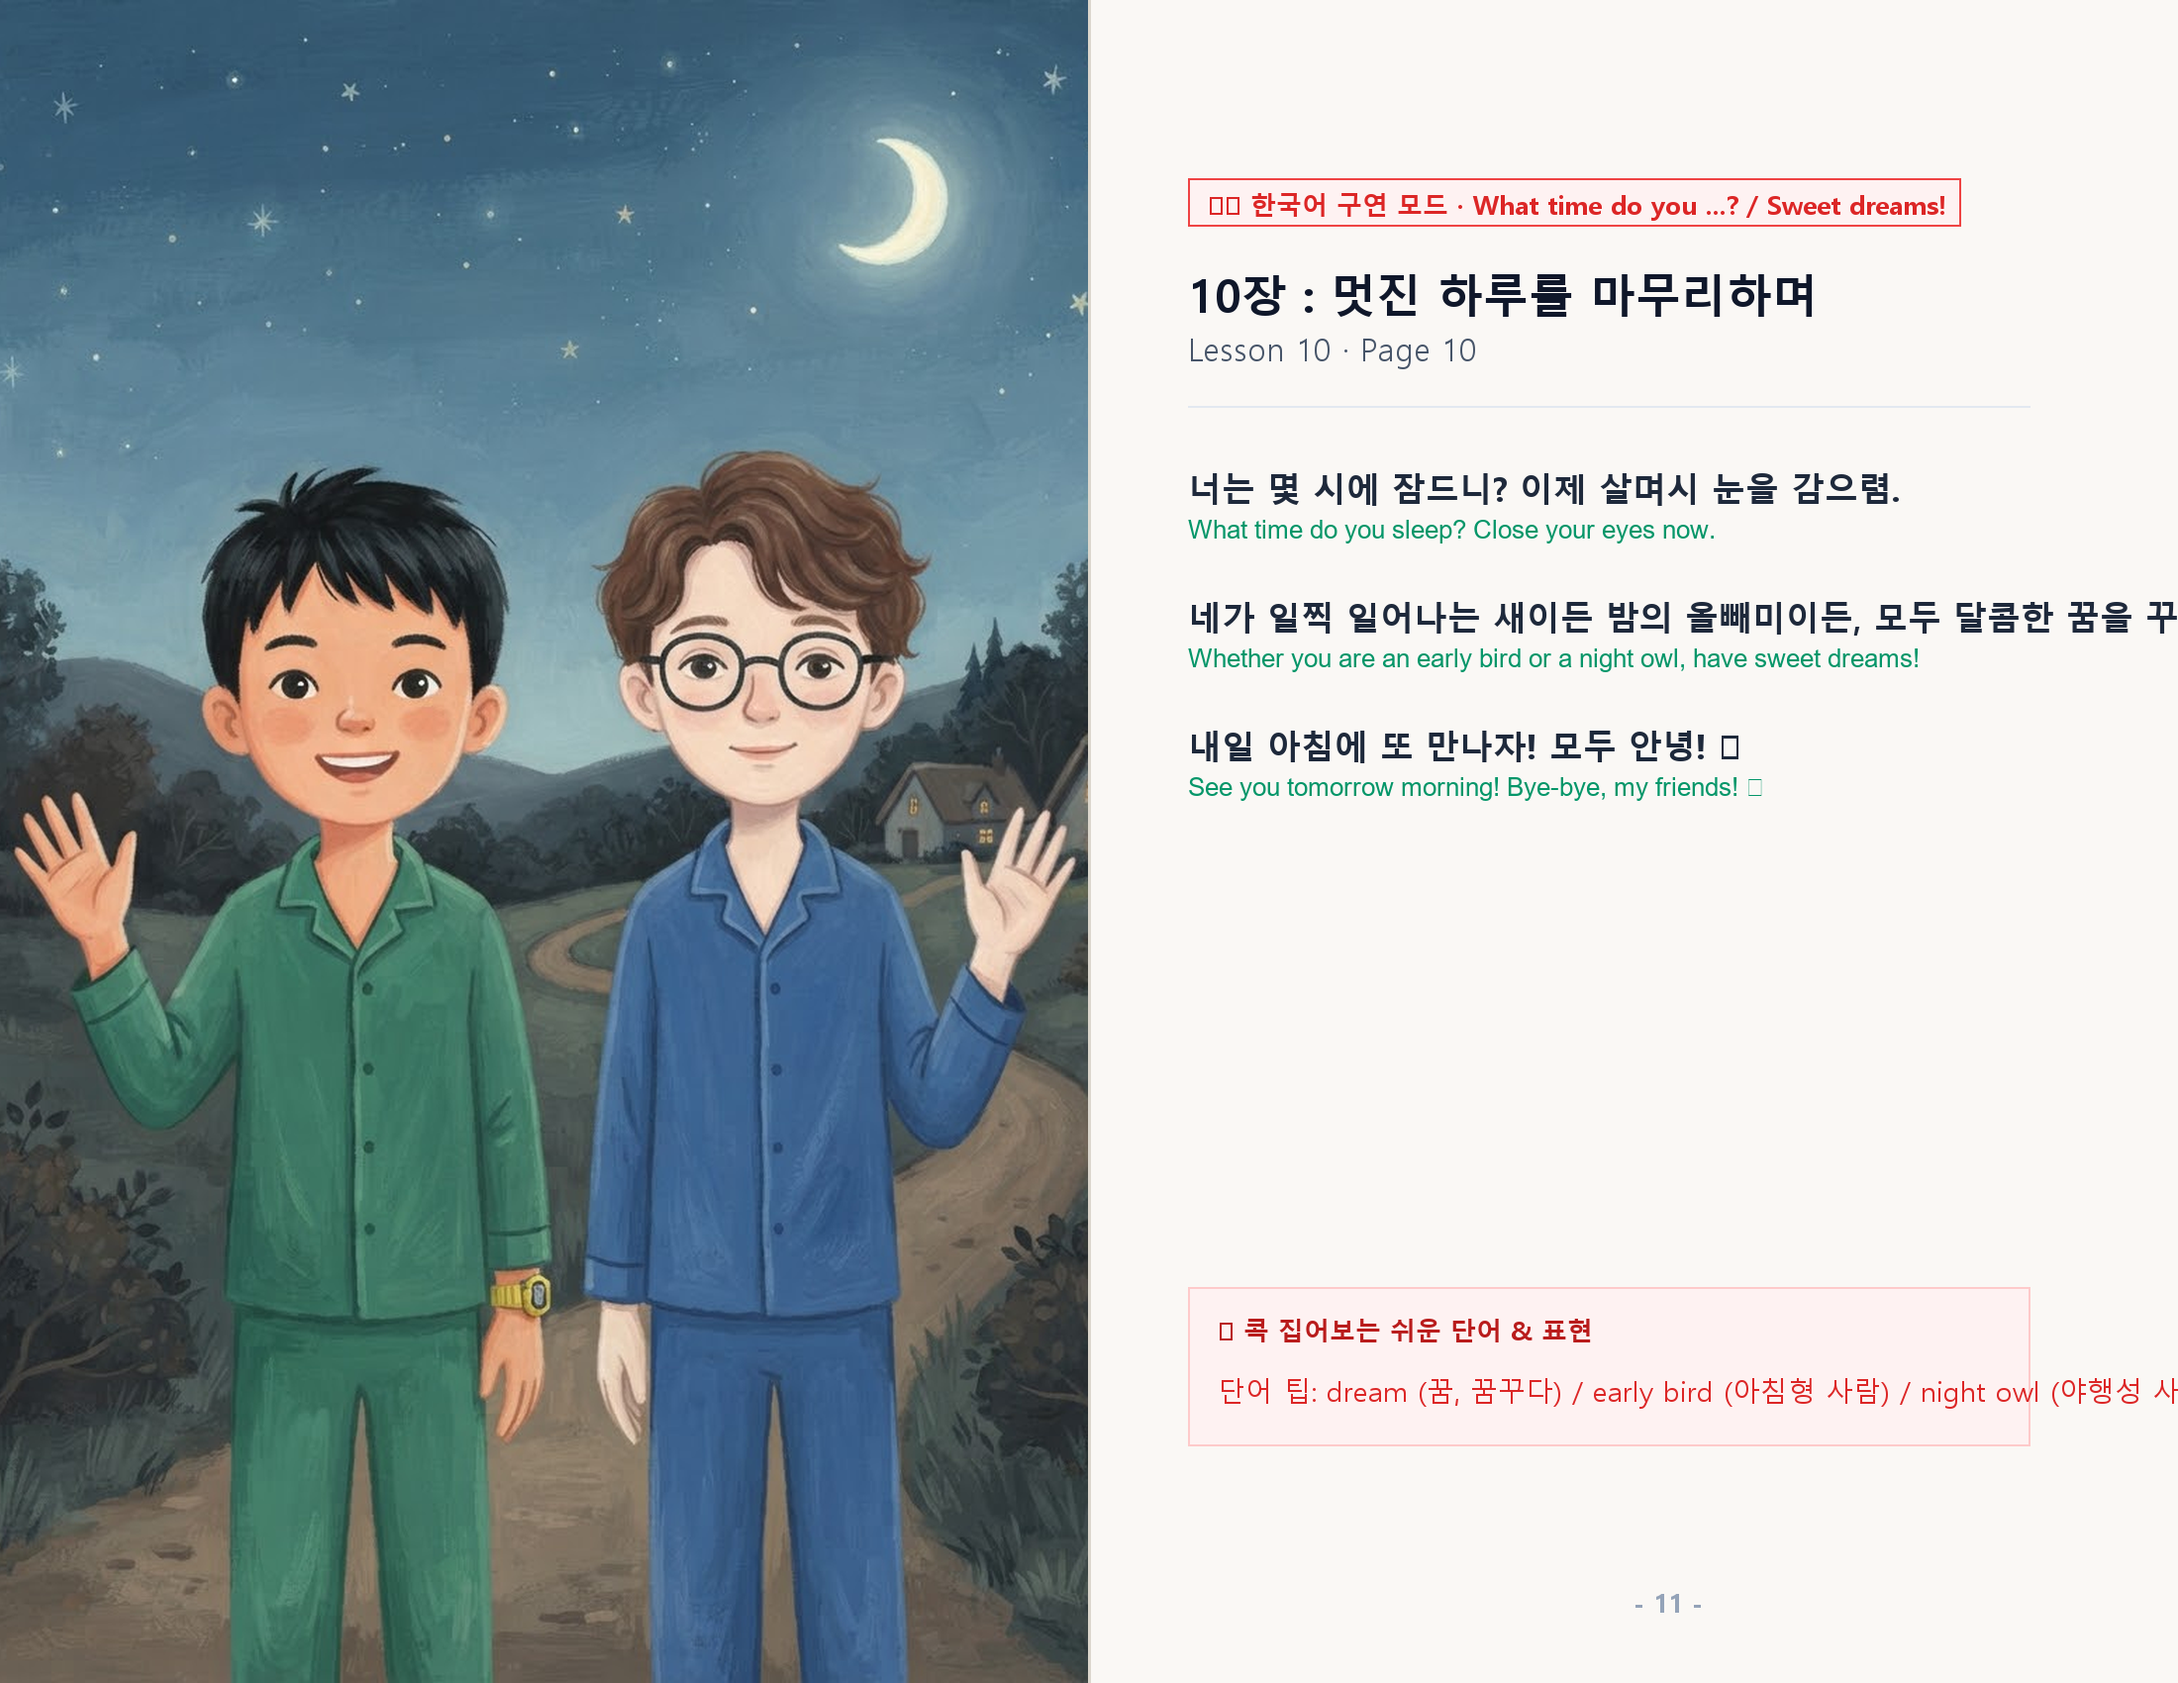
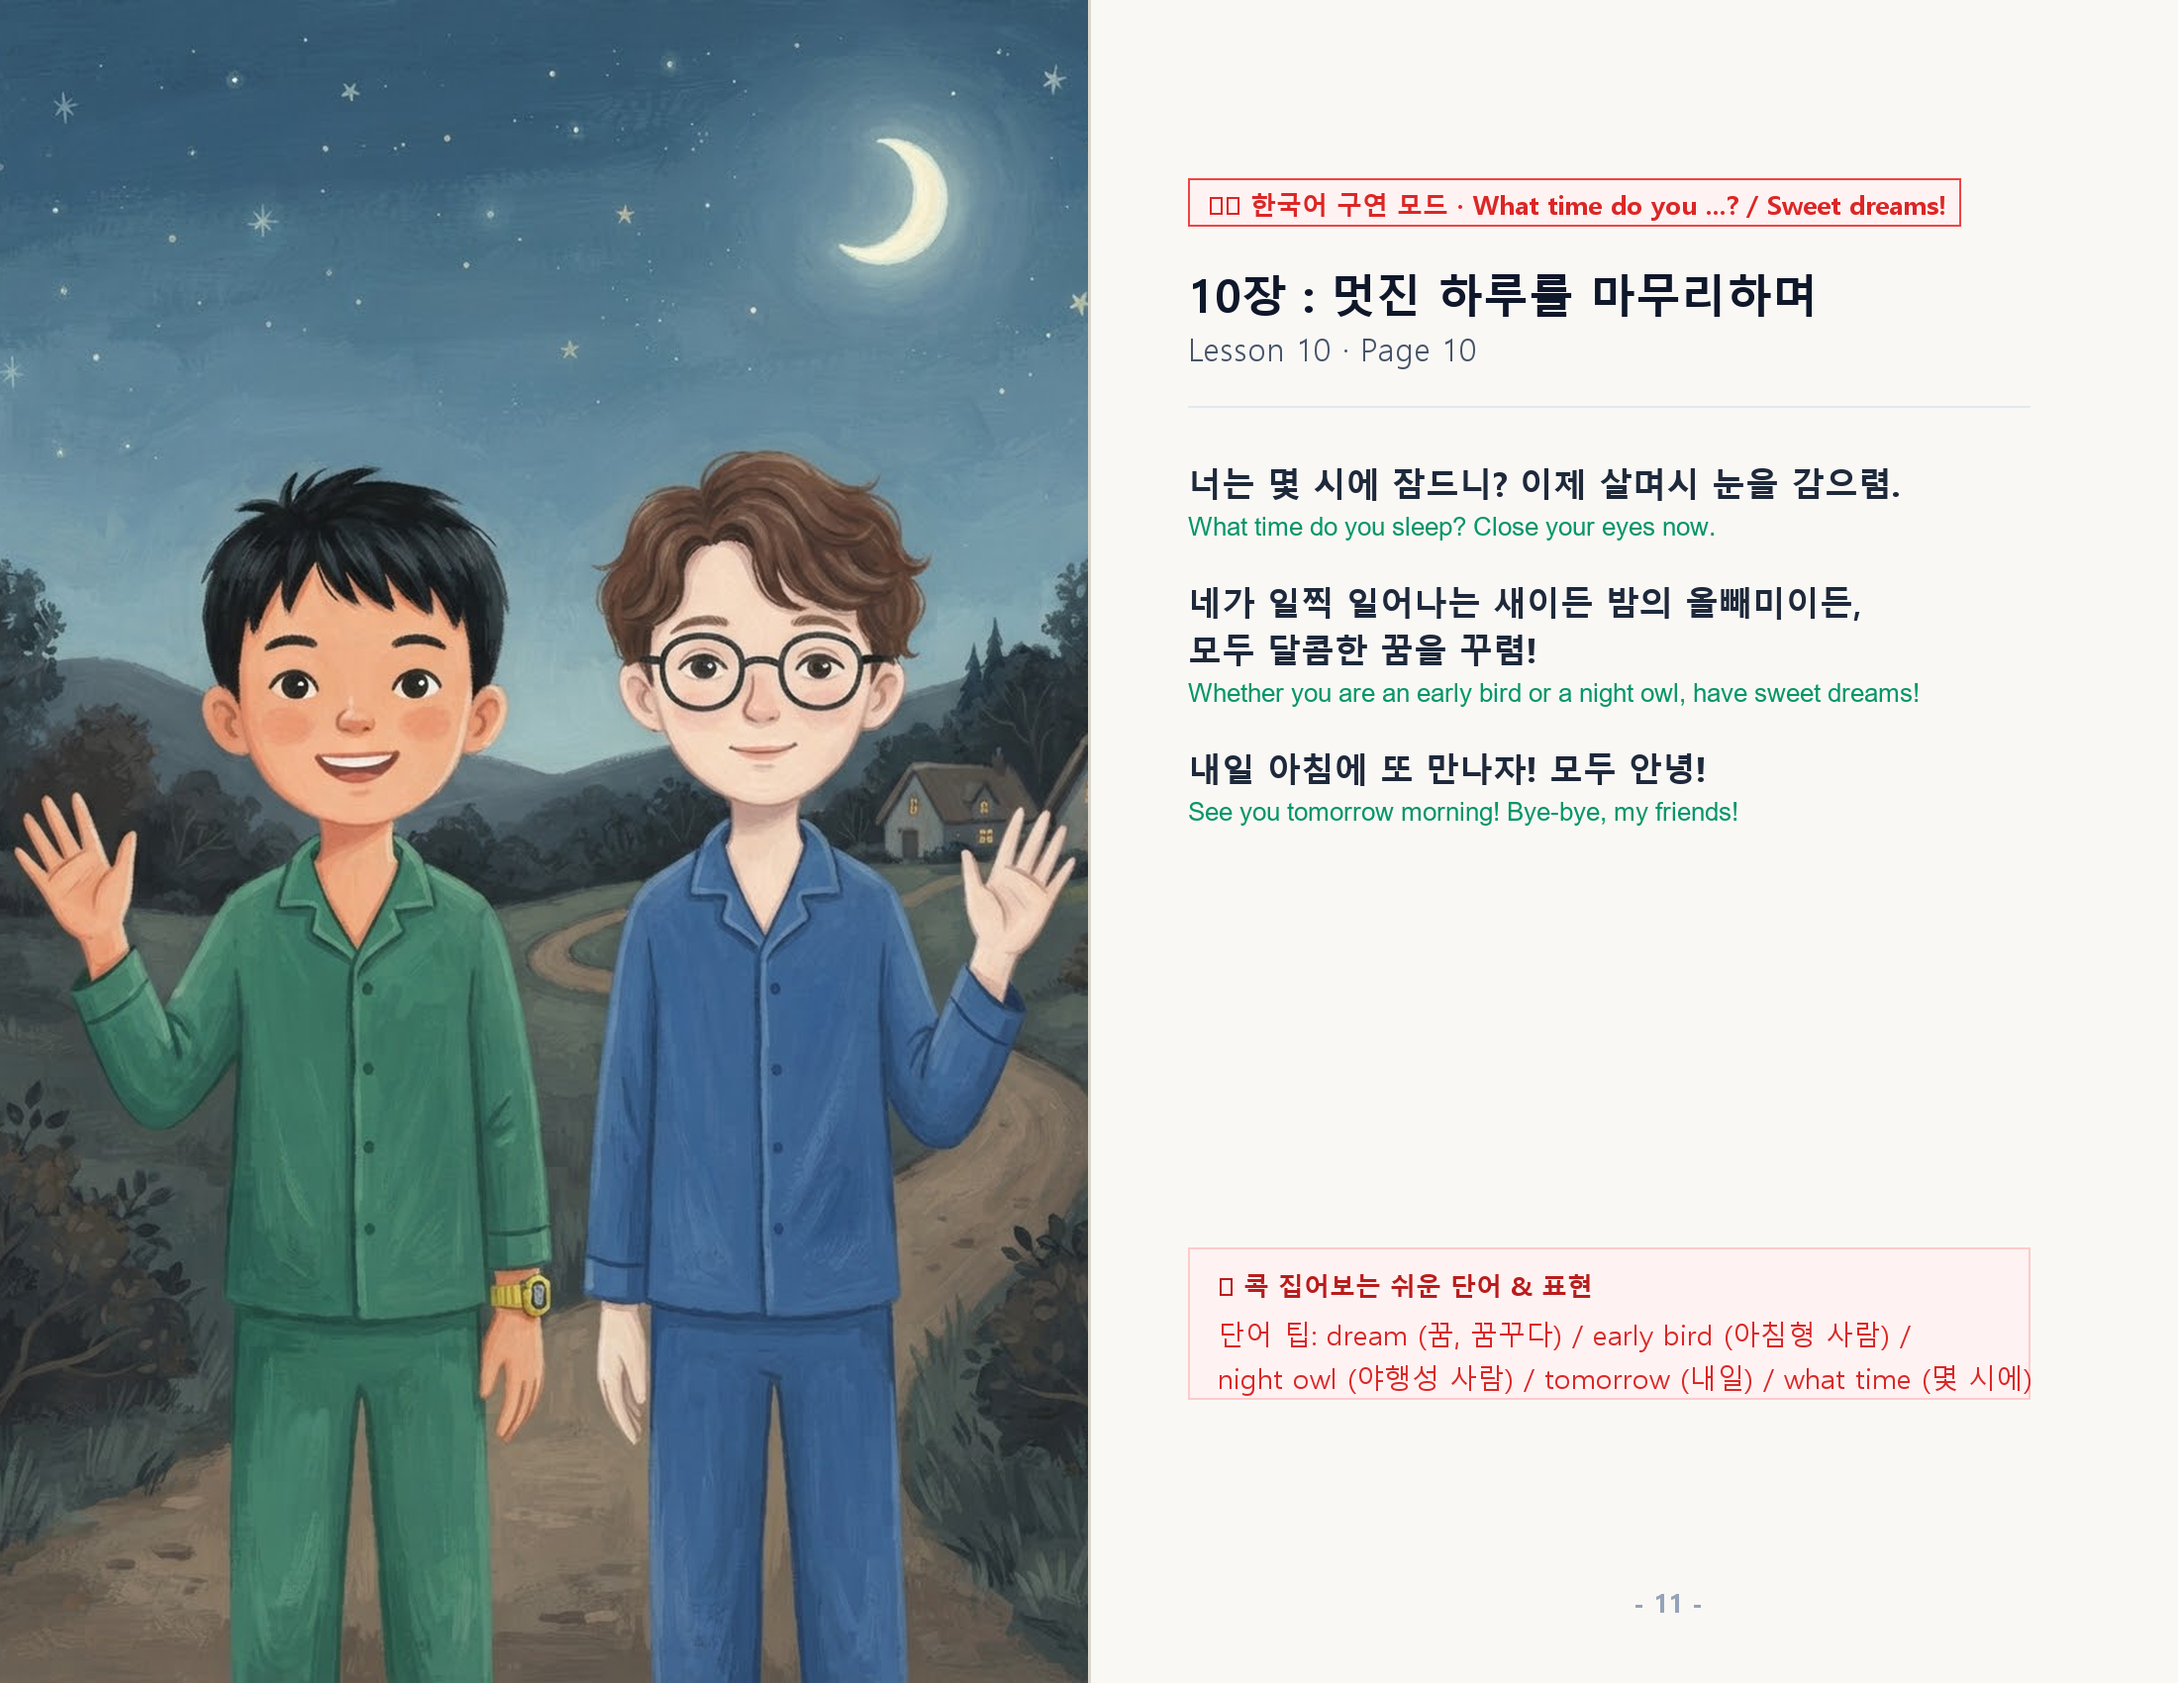
fix(english): 영어 5-2 10단원 스토리북 마지막 페이지 긴 문장 잘림 수정 및 줄바꿈 적용
Agent: antigravity (flash)

Changed region(s): [[0.5255, 0.2806, 1.0, 0.4988], [0.5564, 0.7482, 1.0, 0.8418]]

diff --git a/kids/subjects/english/english_l10_storybook.html b/kids/subjects/english/english_l10_storybook.html
@@ -5,7 +5,7 @@
 <meta name="viewport" content="width=device-width, initial-scale=1.0, maximum-scale=1.0, user-scalable=no">
 <title>The Early Bird and the Night Owl (영어 5-2 10단원) ⏰ | 민민이네 공부방</title>
 <link rel="stylesheet" href="../../css/design-system.css">
-<link rel="stylesheet" href="../../css/storybook_viewer.css">
+<link rel="stylesheet" href="../../css/storybook_viewer.css?v=20261106_v2">
 </head>
 <body>
 
@@ -69,7 +69,7 @@
   <div id="webtoonCardsList" style="display:flex; flex-direction:column; gap:28px;"></div>
 </div>
 
-<script src="./data/story_eng_5_2_l10.js?v=20261104_v1"></script>
-<script src="../../js/storybook_engine.js?v=20261104_v1"></script>
+<script src="./data/story_eng_5_2_l10.js?v=20261106_v2"></script>
+<script src="../../js/storybook_engine.js?v=20261106_v2"></script>
 </body>
 </html>

diff --git a/kids/js/storybook_engine.js b/kids/js/storybook_engine.js
@@ -242,6 +242,13 @@ function getKstTodayYMD(date = new Date()) {
     const version = STORY_BOOK.version || '20260904';
     const imgSrc = resolveImagePath(item, false);
     if (img && imgSrc) {
+      img.onerror = () => {
+        if (STORY_BOOK && STORY_BOOK.archiveImgBase && !img.dataset.triedArchive) {
+          img.dataset.triedArchive = 'true';
+          const altFile = (currentLang === 'kor' && item.korSpreadImg) ? item.korSpreadImg : (item.spreadImg || '');
+          if (altFile) img.src = `${STORY_BOOK.archiveImgBase}${altFile}?v=${version}`;
+        }
+      };
       img.src = `${imgSrc}?v=${version}`;
       img.alt = item.tag || `페이지 ${item.page}`;
     }

diff --git a/kids/subjects/english/data/story_eng_5_2_l10.js b/kids/subjects/english/data/story_eng_5_2_l10.js
@@ -10,9 +10,10 @@ window.STORY_BOOK = {
   themeColorDark: "#047857",
   backUrl: "english.html",
   backLabel: "🚪 영어방 대기실",
-  version: "20261104_l10_v1",
+  version: "20261106_l10_v2",
   bilingual: true,
-  imgBase: "https://raw.githubusercontent.com/awslike6-web/kids-archive/main/assets/storybook/english/minsu/5-2/10/",
+  imgBase: "./images/storybook/l10/",
+  archiveImgBase: "https://raw.githubusercontent.com/awslike6-web/kids-archive/main/assets/storybook/english/minsu/5-2/10/",
   pages: [
     {
       page: 1,

diff --git a/kids/css/storybook_viewer.css b/kids/css/storybook_viewer.css
@@ -179,7 +179,7 @@ body {
 }
 .webtoon-passage {
   font-size: 1.15rem; line-height: 1.85; color: #f1f5f9; font-weight: 500;
-  word-break: keep-all; letter-spacing: -0.2px;
+  word-break: keep-all; overflow-wrap: break-word; letter-spacing: -0.2px;
 }
 .webtoon-passage b {
   color: var(--primary); font-weight: 800; text-shadow: 0 0 1px rgba(0,0,0,0.4);
